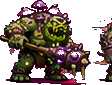
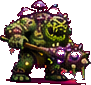
Trim neighbour-frame slivers so every character sprite is whole
Audited all 107 character sprites (player, Dr. Mira, every enemy pose) for
missing parts and stray fragments. Every character has all its parts; three
cuts had picked up a faint sliver of the adjacent frame, now trimmed:

- moldcrawler idle: dropped a neighbour crawler's leg on the right (region
  right 407 -> 378); the crawler keeps every leg and claw.
- fungusbrute club-attack: dropped a neighbour's edge (region right 452 -> 389);
  the brute + club/spiked-ball are intact.
- corruptcyst roll: was catching the acid-stream and the next roll frame; tightened
  to the single rolling cyst body (region right 688 -> 664).

Remaining edge/gap flags are legitimate: the moldcrawler's spider legs are
detached-but-present, its hurt sparks fly off as intended, and the sentinel /
fungusbrute bodies simply fill their frames.

selftest OK: all 5 missions win (4x).

Claude-Session: https://claude.ai/code/session_01C7stTX2MiAL5f8VZvZr1zp

diff --git a/games/mold_mission/cut_moldcrawler.py b/games/mold_mission/cut_moldcrawler.py
@@ -16,7 +16,7 @@ OUT = "assets"
 # the region (the crawler's thin legs are separated from its body by the magenta,
 # so a connected-blob cut would drop them — we must keep all pixels).
 REGIONS = {
-    "moldcrawler":         (300, 140, 407, 224),   # IDLE (row 1, frame 1)
+    "moldcrawler":         (300, 140, 378, 224),   # IDLE (row 1, frame 1)
     "moldcrawler_run":     (1050, 140, 1162, 224),  # RUN (frame 1)
     "moldcrawler_attack":  (298, 402, 456, 494),   # BITE ATTACK
     "moldcrawler_hurt":    (298, 544, 436, 636),   # HURT

diff --git a/games/mold_mission/cut_corruptcyst.py b/games/mold_mission/cut_corruptcyst.py
@@ -15,7 +15,7 @@ OUT = "assets"
 # name -> region box (l, t, r, b) around a single blob, clear of neighbours/text.
 REGIONS = {
     "corruptcyst":         (305, 108, 418, 238),   # IDLE (row 1, frame 1)
-    "corruptcyst_run":     (598, 108, 688, 238),   # ROLL / MOVE (frame 1)
+    "corruptcyst_run":     (598, 108, 664, 238),   # ROLL / MOVE (frame 1)
     "corruptcyst_attack":  (300, 282, 424, 414),   # ACID GLOB SHOT (body)
     "corruptcyst_hurt":    (300, 486, 428, 596),   # HURT
 }

diff --git a/games/mold_mission/cut_fungusbrute.py b/games/mold_mission/cut_fungusbrute.py
@@ -18,7 +18,7 @@ OUT = "assets"
 REGIONS = {
     "fungusbrute":         (300, 112, 376, 230),   # IDLE (row 1, frame 1)
     "fungusbrute_run":     (940, 112, 1055, 230),  # RUN (frame 1)
-    "fungusbrute_attack":  (300, 402, 478, 512),   # CLUB SWING
+    "fungusbrute_attack":  (300, 402, 389, 512),   # CLUB SWING
     "fungusbrute_hurt":    (298, 572, 418, 662),   # HURT
     "fungusbrute_enraged": (298, 724, 452, 804),   # RAGE MODE (glowing)
 }
